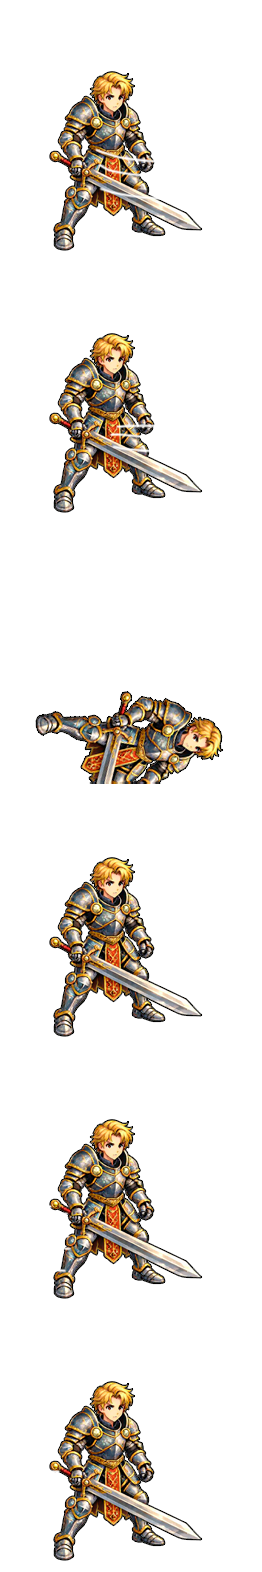
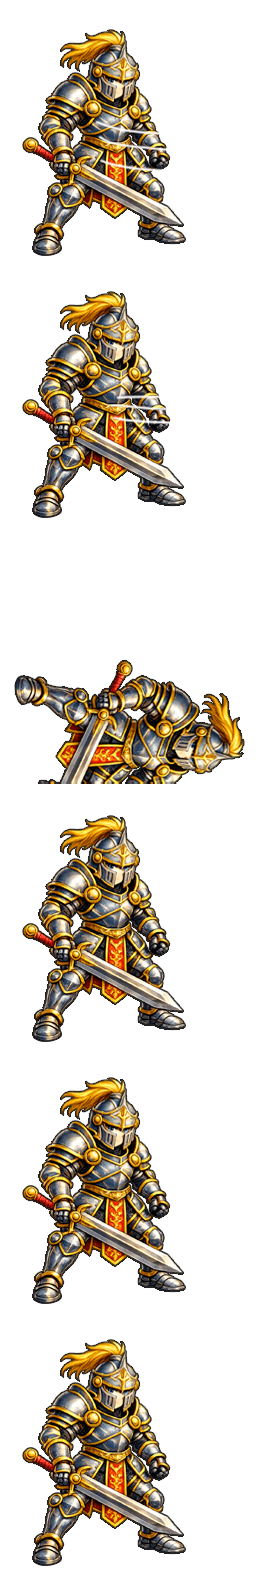
New portraits for all! COOL

Changed region(s): [[0.0611, 0.4052, 0.9466, 0.9975], [0.0916, 0.0, 0.7634, 0.3429]]

diff --git a/hexochess/src/scenes/BattleScene.js b/hexochess/src/scenes/BattleScene.js
@@ -276,13 +276,27 @@ export default class BattleScene extends Phaser.Scene {
     this.load.image(TRASH_ICON_OPEN_KEY, '/assets/icons/trash/trash_open.png');
     this.load.image('projectile_bone', '/assets/projectiles/bone.png');
     this.load.image('projectile_bolt', '/assets/projectiles/bolt.png');
+    this.load.image('shop_portrait_bones_golem', '/assets/units/undead/bones_golem/bonny_portrait.png');
+    this.load.image('shop_portrait_ghost', '/assets/units/undead/ghost/ghost_portrait.png');
     this.load.image('shop_portrait_angel', '/assets/units/gods/angel/angel_portrait.png');
+    this.load.image('shop_portrait_crossbowman', '/assets/units/human/crossbowman/crossbowman_portrait.png');
     this.load.image('shop_portrait_crusader', '/assets/units/human/crusader/crusader_portrait.png');
+    this.load.image('shop_portrait_devil', '/assets/units/demons/devil/devis_portrait.png');
+    this.load.image('shop_portrait_headless', '/assets/units/undead/headless/headless_portrait.png');
     this.load.image('shop_portrait_incub', '/assets/units/demons/incub/incub_portrait.png');
     this.load.image('shop_portrait_knight', '/assets/units/human/knight/knight_portrait.png');
+    this.load.image('shop_portrait_lich', '/assets/units/undead/lich/lich_portrait.png');
     this.load.image('shop_portrait_monk', '/assets/units/lizard/monk/monk_portrait.png');
+    this.load.image('shop_portrait_priest', '/assets/units/human/priest/priest_portrait.png');
+    this.load.image('shop_portrait_skeleton', '/assets/units/undead/skeleton/skeleton_portrait.png');
+    this.load.image('shop_portrait_skeleton_archer', '/assets/units/undead/skeleton_archer/sarcher_portrait.png');
     this.load.image('shop_portrait_siren', '/assets/units/lizard/siren/siren_portrait.png');
     this.load.image('shop_portrait_succub', '/assets/units/demons/succub/succub_portrait.png');
+    this.load.image('shop_portrait_swordman', '/assets/units/human/swordman/swordman_portrait.png');
+    this.load.image('shop_portrait_undertaker', '/assets/units/undead/undertaker/undertaker_portrait.png');
+    this.load.image('shop_portrait_vampire', '/assets/units/undead/vampire/vampire_portrait.png');
+    this.load.image('shop_portrait_worm', '/assets/units/undead/worm/worm_portrait.png');
+    this.load.image('shop_portrait_zombie', '/assets/units/undead/zombie/zombie_portrait.png');
     this.load.image(BENCH_HEX_PIN_TEXTURE_KEY, '/assets/bench/grass/pin1.png');
 
     for (const asset of EXTRA_PORTRAIT_ASSETS) {

diff --git a/hexochess/src/game/unitVisualConfig.js b/hexochess/src/game/unitVisualConfig.js
@@ -45,8 +45,8 @@ export const UNIT_VISUAL_CONFIG_BY_TYPE = {
   },
   Crossbowman: {
     groundLiftPx: 90,
-    artTargetPx: 140,
-    artOffsetXPx: 10,
+    artTargetPx: 130,
+    artOffsetXPx: 12,
     hpUiLiftPx: 25,
     footShadowWidthPx: 65,
     footShadowHeightPx: 16,
@@ -168,20 +168,20 @@ export const UNIT_VISUAL_CONFIG_BY_TYPE = {
     footShadowOffsetYPx: 15,
   },
   Skeleton: {
-    groundLiftPx: 80,
-    artTargetPx: 130,
+    groundLiftPx: 85,
+    artTargetPx: 140,
     artOffsetXPx: 5,
-    hpUiLiftPx: 20,
+    hpUiLiftPx: 25,
     footShadowWidthPx: 50,
     footShadowHeightPx: 15,
     footShadowOffsetXPx: 0,
     footShadowOffsetYPx: 15,
   },
   SkeletonArcher: {
-    groundLiftPx: 80,
-    artTargetPx: 120,
+    groundLiftPx: 85,
+    artTargetPx: 130,
     artOffsetXPx: 0,
-    hpUiLiftPx: 18,
+    hpUiLiftPx: 23,
     footShadowWidthPx: 50,
     footShadowHeightPx: 15,
     footShadowOffsetXPx: 0,
@@ -210,11 +210,11 @@ export const UNIT_VISUAL_CONFIG_BY_TYPE = {
   },
   Swordsman: {
     // Baseline example config. Use this as reference when tuning other units.
-    groundLiftPx: 100,
-    artTargetPx: 160,
+    groundLiftPx: 95,
+    artTargetPx: 140,
     artOffsetXPx: 15,
-    hpUiLiftPx: 20,
-    footShadowWidthPx: 65,
+    hpUiLiftPx: 35,
+    footShadowWidthPx: 70,
     footShadowHeightPx: 17,
     footShadowOffsetXPx: 0,
     footShadowOffsetYPx: 10,

diff --git a/hexochess/src/scenes/battleScene/shopUi.js b/hexochess/src/scenes/battleScene/shopUi.js
@@ -25,11 +25,29 @@
     Angel: {
       key: 'shop_portrait_angel',
     },
+    BonesGolem: {
+      key: 'shop_portrait_bones_golem',
+    },
+    Crossbowman: {
+      key: 'shop_portrait_crossbowman',
+    },
     Crusader: {
       key: 'shop_portrait_crusader',
     },
+    Devil: {
+      key: 'shop_portrait_devil',
+    },
+    Ghost: {
+      key: 'shop_portrait_ghost',
+    },
+    Headless: {
+      key: 'shop_portrait_headless',
+    },
     Incub: {
       key: 'shop_portrait_incub',
+    },
+    Lich: {
+      key: 'shop_portrait_lich',
     },
     Knight: {
       key: 'shop_portrait_knight',
@@ -40,8 +58,32 @@
     NagaSiren: {
       key: 'shop_portrait_siren',
     },
+    Priest: {
+      key: 'shop_portrait_priest',
+    },
+    Skeleton: {
+      key: 'shop_portrait_skeleton',
+    },
+    SkeletonArcher: {
+      key: 'shop_portrait_skeleton_archer',
+    },
     Succub: {
       key: 'shop_portrait_succub',
+    },
+    Swordsman: {
+      key: 'shop_portrait_swordman',
+    },
+    Undertaker: {
+      key: 'shop_portrait_undertaker',
+    },
+    Vampire: {
+      key: 'shop_portrait_vampire',
+    },
+    Worm: {
+      key: 'shop_portrait_worm',
+    },
+    Zombie: {
+      key: 'shop_portrait_zombie',
     },
   };
   const SHOP_CARD_POWER_ART_KEY_BY_POWER_TYPE = Object.freeze({
